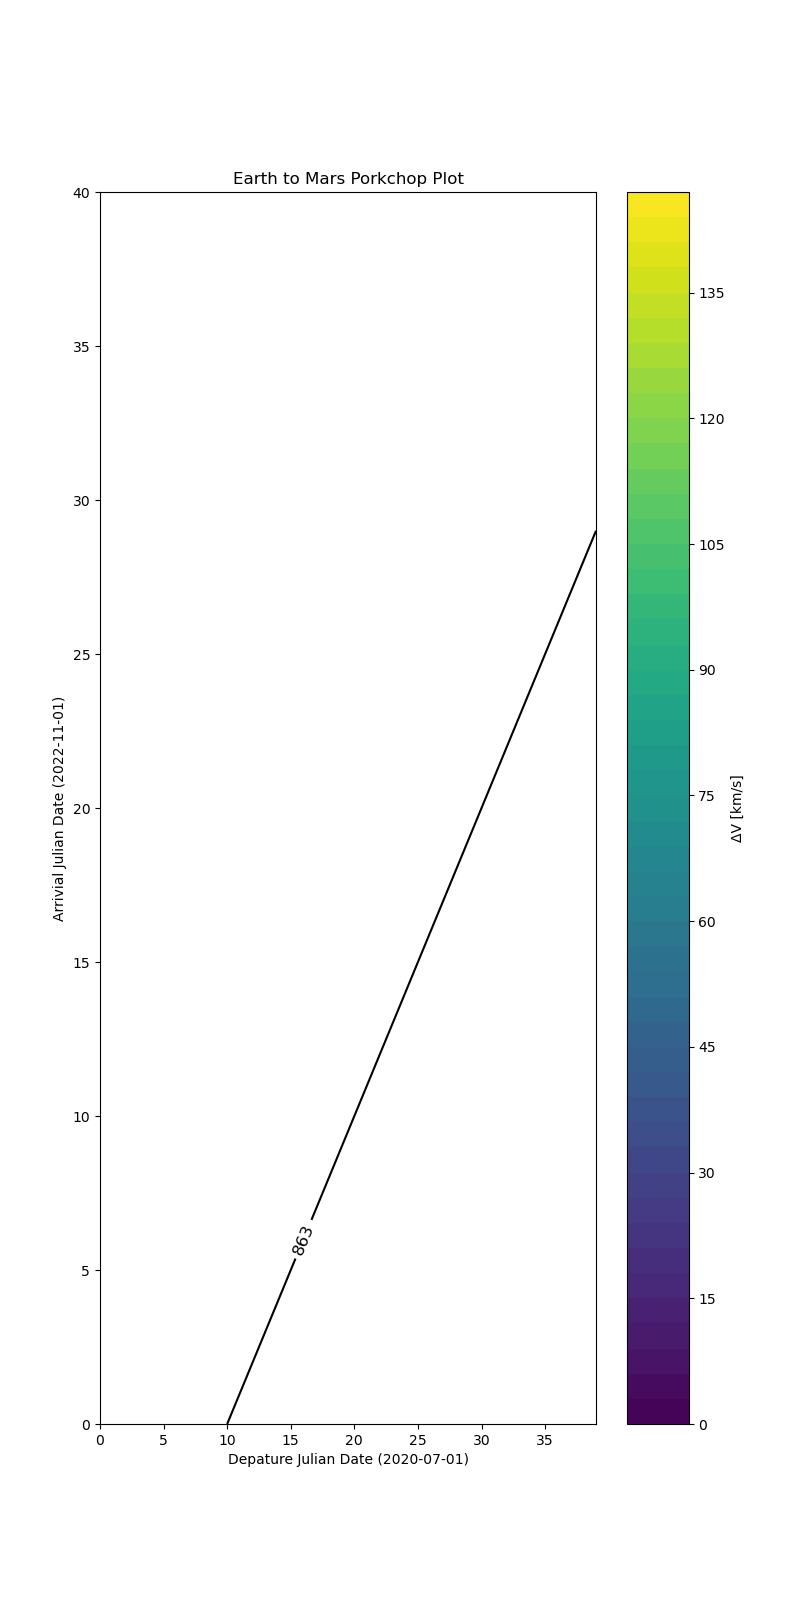
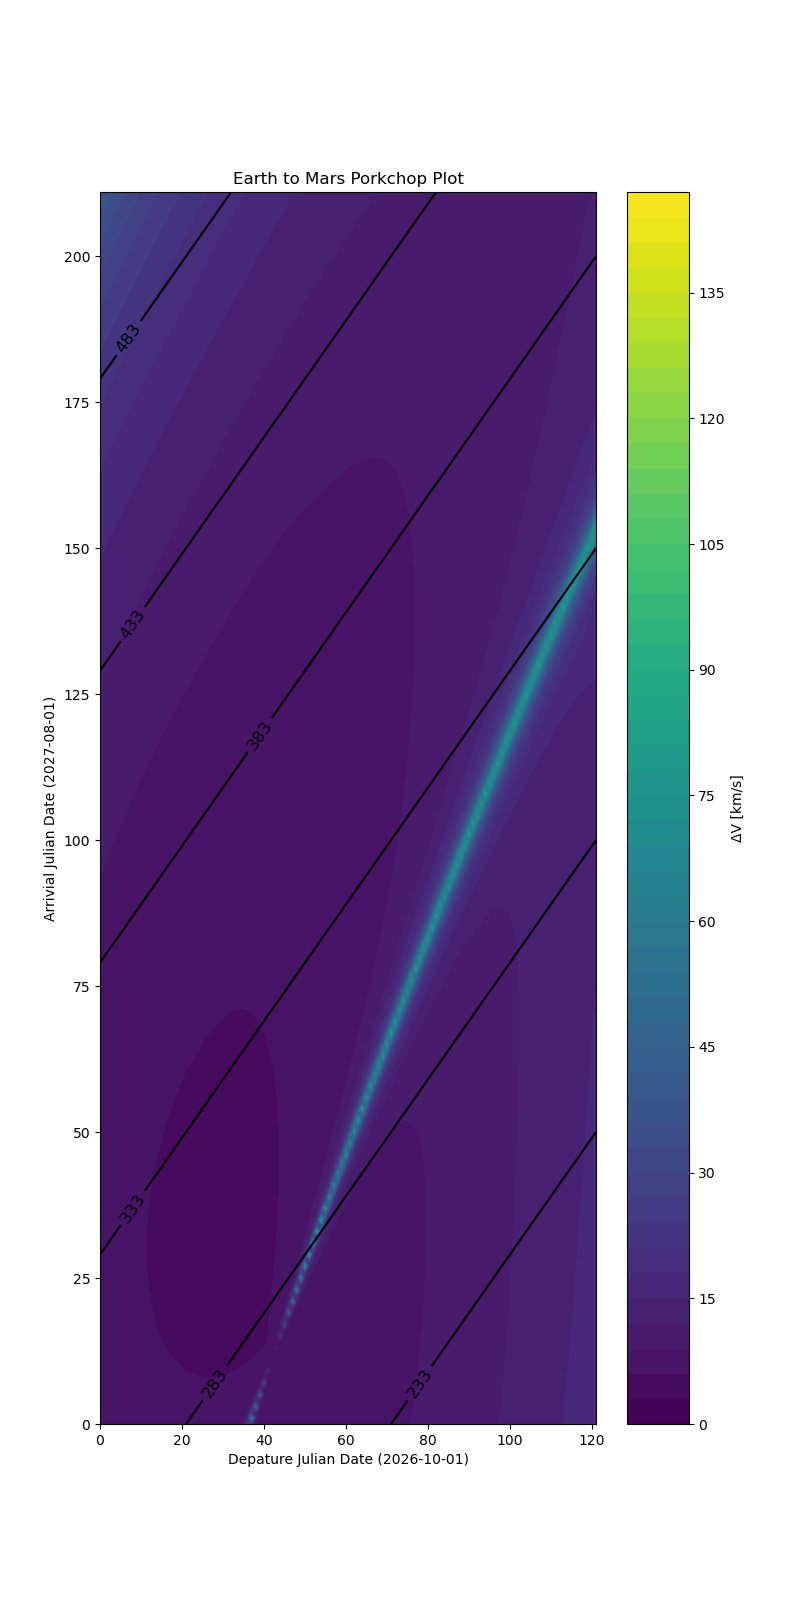
Made porkchop4 hella fast

diff --git a/porkchop4.py b/porkchop4.py
@@ -28,13 +28,13 @@ SUN_MU = 1.327 * 10**20
 DV_CUT_OFF = 150*1000  # km/s
 
 
-def porkchop_point(date_pair, transfer):
+def porkchop_point(date_info):
     """
     arrivial_date, depature_date: Astropy Time Object
     returns: delta_v_short[m/s], delta_v_long[m/s], tof_days
     """
 
-    depature_date, arrival_date = date_pair
+    i, j, depature_date, arrival_date = date_info
 
     # calculate tof
     tof = (arrival_date - depature_date).sec  # type:ignore
@@ -60,75 +60,46 @@ def porkchop_point(date_pair, transfer):
     r2_mars = (r2_mars_eph.xyz - r2_sun.xyz).to(u.m).value      # type:ignore
     v2_mars = (v2_mars_eph.xyz - v2_sun.xyz).to(u.m/u.s).value  # type:ignore
 
-    """
-    Solve for transfer orbit via lamberts SHORT path
-    """
-    try:
-        transfer.a, transfer.p, transfer.e, transfer_v1, transfer_v2 = lambert_solver(
-            r1_earth, r2_mars, tof, transfer.mu, desired_path='short')  # type:ignore
+   # Solve for lamberts the short way
+    _, _, _, transfer_v1, transfer_v2 = result = lambert_solver(
+        r1_earth, r2_mars, tof, SUN_MU, desired_path='short')  # type:ignore
 
-        transfer_r1 = r1_earth
+    # delta v1 is escaping earth
+    delta_v1 = np.linalg.norm(transfer_v1 - v1_earth)
 
-        # delta v1 is escaping earth
-        delta_v1 = np.linalg.norm(transfer_v1 - v1_earth)
+    # delta v2 is for learving transfer orbit
+    delta_v2 = np.linalg.norm(v2_mars - transfer_v2)
 
-        # delta v2 is for learving transfer orbit
-        delta_v2 = np.linalg.norm(v2_mars - transfer_v2)
-
-        # total delta v
-        if (delta_v1 + delta_v2) > DV_CUT_OFF:
-            delta_v_short = DV_CUT_OFF
-        else:
-            delta_v_short = delta_v1 + delta_v2
-    except:
+    # total delta v
+    if (delta_v1 + delta_v2) > DV_CUT_OFF:
         delta_v_short = DV_CUT_OFF
+    else:
+        delta_v_short = delta_v1 + delta_v2
 
-    """
-    Solve for transfer orbit via lamberts LONG path
-    """
-    try:
-        transfer.a, transfer.p, transfer.e, transfer_v1, transfer_v2 = lambert_solver(
-            r1_earth, r2_mars, tof, transfer.mu, desired_path='long')  # type:ignore
+   # Solve for lamberts the long way
+    _, _, _, transfer_v1, transfer_v2 = lambert_solver(
+        r1_earth, r2_mars, tof, SUN_MU, desired_path='long')  # type:ignore
 
-        transfer_r1 = r1_earth
+    # delta v1 is escaping earth
+    delta_v1 = np.linalg.norm(transfer_v1 - v1_earth)
 
-        # delta v1 is escaping earth
-        delta_v1 = np.linalg.norm(transfer_v1 - v1_earth)
-
-        # delta v2 is for learving transfer orbit
-        delta_v2 = np.linalg.norm(v2_mars - transfer_v2)
-        # total delta v
-        if (delta_v1 + delta_v2) > DV_CUT_OFF:
-            delta_v_long = DV_CUT_OFF
-        else:
-            delta_v_long = delta_v1 + delta_v2
-    except:
+    # delta v2 is for learving transfer orbit
+    delta_v2 = np.linalg.norm(v2_mars - transfer_v2)
+    # total delta v
+    if (delta_v1 + delta_v2) > DV_CUT_OFF:
         delta_v_long = DV_CUT_OFF
+    else:
+        delta_v_long = delta_v1 + delta_v2
 
     tof_days = (arrival_date - depature_date).to('day').value  # type:ignore
 
-    return delta_v_short, delta_v_long, tof_days
+    return i, j, delta_v_short, delta_v_long, tof_days
 
 
 def main():
     """
     Orbital elemenets are not used in this code, but we use the orbit class
     """
-    # Use Table 1 https://ssd.jpl.nasa.gov/planets/approx_pos.html
-    earth = Orbit(a=1.00000261*AU,
-                  e=0.01671123,
-                  inc=-0.00001531,
-                  raan=0,
-                  aop=102.93768193,
-                  mu=SUN_MU)
-
-    mars = Orbit(a=1.523*AU,
-                 e=0.093,
-                 inc=1.849,
-                 raan=49.5,
-                 aop=-23.9,
-                 mu=SUN_MU)
-
     transfer = Orbit(mu=SUN_MU)
 
     # intialize jpl ephemeris
@@ -137,21 +108,21 @@ def main():
     # Start run timer
     start = time.perf_counter()
 
+    """
     # define range of depature & arrivial dates
     depature_date_1 = Time("2020-07-01")
     depature_date_2 = Time("2020-08-10")
 
     arrival_date_1 = Time("2022-11-01")
     arrival_date_2 = Time("2022-12-10")
-
     """
+
     # define range of depature & arrivial dates
     depature_date_1 = Time("2026-10-01")
     depature_date_2 = Time("2027-01-30")
 
     arrival_date_1 = Time("2027-08-01")
     arrival_date_2 = Time("2028-02-28")
-    """
 
     # Create array of date pairs
     step = TimeDelta(1, format='jd')
@@ -161,28 +132,26 @@ def main():
     arrival_dates = np.arange(
         arrival_date_1, arrival_date_2+step, step)
 
-    date_pairs = np.zeros(
+    date_info = np.zeros(
         [len(depature_dates), len(arrival_dates)], dtype=object)
-    for dep in range(len(depature_dates)):
-        for arv in range(len(arrival_dates)):
-            date_pairs[dep, arv] = (depature_dates[dep], arrival_dates[arv])
+
+    for i, dep in enumerate(depature_dates):
+        for j, arv in enumerate(arrival_dates):
+            date_info[i, j] = (i, j, dep, arv)
 
     # Intilize result arrays
-    delta_v_short = np.zeros(date_pairs.shape)
-    delta_v_long = np.zeros(date_pairs.shape)
-    tof_days = np.zeros(date_pairs.shape)
+    delta_v_short_arr = np.zeros(date_info.shape)
+    delta_v_long_arr = np.zeros(date_info.shape)
+    tof_days_arr = np.zeros(date_info.shape)
 
-    flat_pairs = date_pairs.flatten()
+    with Pool(7) as pool:
+        results = pool.map(
+            porkchop_point, date_info.flatten())
 
-    with Pool(10) as pool:
-        results = pool.map(porkchop_point, flat_pairs)
-
-    results = np.array(results)
-    delta_v_short = results[:, 0].reshape(
-        len(depature_dates), len(arrival_dates))
-    delta_v_long = results[:, 1].reshape(
-        len(depature_dates), len(arrival_dates))
-    tof_days = results[:, 2].reshape(len(depature_dates), len(arrival_dates))
+        for (i, j, delta_v_short, delta_v_long, tof_days) in results:
+            delta_v_short_arr[i, j] = delta_v_short
+            delta_v_long_arr[i, j] = delta_v_long
+            tof_days_arr[i, j] = tof_days
 
     # END run timer
     end = time.perf_counter()
@@ -190,8 +159,8 @@ def main():
     print(f" TIME TO RUN PROGRAM IS {end-start}")
 
     # Convert to km/s
-    delta_v_short /= 1000
-    delta_v_long /= 1000
+    delta_v_short_arr /= 1000
+    delta_v_long_arr /= 1000
 
     """- - - - - - - - - - - - - - - -PLOTTING- - - - - - - - - - - - - - - -"""
     fig, ax = plt.subplots(figsize=(8, 16))
@@ -199,31 +168,26 @@ def main():
 
     dv_levels = np.arange(0, (DV_CUT_OFF/1000), 3)
 
-    delta_v_best = np.minimum(delta_v_short, delta_v_long)
+    delta_v_best = np.minimum(delta_v_short_arr, delta_v_long_arr)
 
     cf = ax.contourf(delta_v_best, inline=False, levels=dv_levels)
     cbar = fig.colorbar(cf, ax=ax, label="ΔV [km/s]")
 
-    # dv_short = ax.contour(delta_v_short,  inline=False,
-    #                      levels=dv_levels, colors='k')
-    # ax.clabel(dv_short, inline=False)
-
-    # dv_long = ax.contour(delta_v_long,  inline=False, levels=dv_levels, colors='k')
-    # ax.clabel(dv_long, inline=False)
-
-    tof_levels = np.arange(np.min(tof_days), np.max(tof_days), 50)
-    tof = ax.contour(tof_days, levels=tof_levels, colors='black')
+    tof_levels = np.arange(np.min(tof_days_arr), np.max(tof_days_arr), 50)
+    tof = ax.contour(tof_days_arr, levels=tof_levels, colors='black')
     ax.clabel(tof, inline=True, fontsize=ft, fmt="%i")
 
     # formatting
     ax.set_xlabel(
+        # type:ignore
         f"Depature Julian Date ({depature_date_1.to_datetime().strftime('%Y-%m-%d')})")
     ax.set_ylabel(
+        # type:ignore
         f"Arrivial Julian Date ({arrival_date_1.to_datetime().strftime('%Y-%m-%d')})")
     ax.set_title("Earth to Mars Porkchop Plot")
 
-    fig.savefig("porkchop_plot.png")
-    plt.show()
+    fig.savefig("porkchop_plot_2.png")
+    # plt.show()
 
 
 if __name__ == "__main__":

diff --git a/porkchop3.py b/porkchop3.py
@@ -50,22 +50,23 @@ solar_system_ephemeris.set('de432s')  # Ephemeris from 1950 - 2050
 # Start run timer
 start = time.perf_counter()
 
+"""
 # define range of depature & arrivial dates
 depature_date_1 = Time("2020-07-01")
 depature_date_2 = Time("2020-08-10")
 
 arrival_date_1 = Time("2022-11-01")
 arrival_date_2 = Time("2022-12-10")
-
-
 """
+
+
 # define range of depature & arrivial dates
 depature_date_1 = Time("2026-10-01")
 depature_date_2 = Time("2027-01-30")
 
 arrival_date_1 = Time("2027-08-01")
 arrival_date_2 = Time("2028-02-28")
-"""
+
 
 step = TimeDelta(1, format='jd')
 
